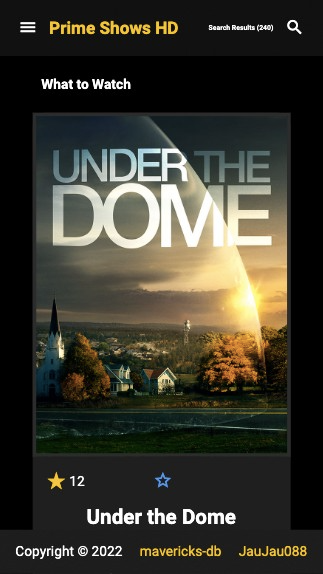
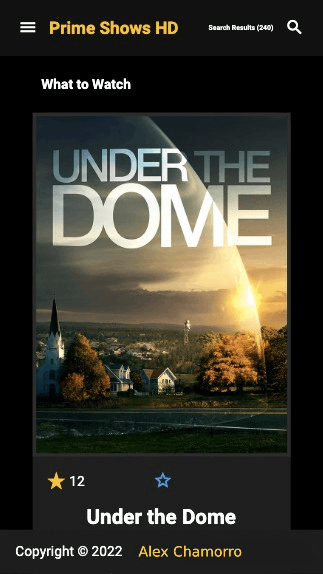
Updates resources

Changed region(s): [[0.4334, 0.9477, 0.9598, 0.9774]]

diff --git a/README.md b/README.md
@@ -3,7 +3,7 @@
 
 # PRIME SHOWS HD
 
-## *Microverse Second Capstone Project*
+## *Microverse Capstone Project*
 
 > This educational project is to build our own web application based on an external API. We selected an API that provides data about a topic that we like and built the web app around it. The web app will have 2 user interfaces.
 
@@ -24,9 +24,6 @@
 - [x] Make JavaScript code synchronous.
 - [x] Perform a code review for a team member.
 
-## Project Documentation 📄
-- [x] Here is the presentation video [link](https://drive.google.com/file/d/1Y0g36qCEXfqTaaSVR7acBoWULyKo-91x/view?usp=sharing)👈
-
 ## Built With 🛠
 
 - [x] Languages: HTML, Sass and JavaScript
@@ -38,7 +35,7 @@
 - [x] Code Editor: VS Code
 
 ## Website Mockup 📱 💻 🖥
-![website_mockup](https://user-images.githubusercontent.com/98527559/169324147-2d46aaf5-ed06-4e70-a8c3-acbcc8c28d63.png)
+![website_mockup](./website_screenshot.png)
 
 
 ## Screenshots 📸
@@ -46,7 +43,7 @@ Screenshots can be found in the repository.
 
 ## Live Demo 🔗
 
-Check the live demo [here](https://mavericks-db.github.io/capstone02/dist)👈
+Check the live demo [here](https://alexchamorro0x.github.io/capstone/dist)👈
 
 ## Getting Started
 
@@ -76,7 +73,7 @@ Clone the repository using the GitHub link provided below.
 In the terminal, go to your file directory and run this command.
 
 ```
-$ git clone git@github.com:mavericks-db/capstone02.git
+$ git clone git@github.com:alexchamorro0x/capstone.git
 ```
 
 ### Usage
@@ -85,7 +82,7 @@ Kindly modify the files as needed.
 
 ### Run tests
 
-To check for linters, use the files provided by [Microverse](https://github.com/microverseinc/linters-config). A GitHub action is also set to run during pull request.
+To check for linters, use the files provided by [Microverse](https://github.com/alexchamorro0x/linters-config). A GitHub action is also set to run during pull request.
 ```
 $ npm install
 ```
@@ -95,36 +92,11 @@ $ npm install
 This app is deployed in the GitHub Pages for easy viewing upon merged on the main branch.
 Please find the link in the Live Demo section.
 
-
-## Authors
-
-👤 **Mavericks Balitaan** <img src="https://emojis.slackmojis.com/emojis/images/1531849430/4246/blob-sunglasses.gif?1531849430" width="20"/>
-
-- GitHub: [![GitHub Badge](https://img.shields.io/badge/-mavericks--db-white?logo=GitHub&logoColor=181717&style=plastic)](https://github.com/mavericks-db)
-
-- Twitter: [![Twitter Badge](https://img.shields.io/badge/-mavericks__db-white?logo=Twitter&logoColor=1DA1F2&style=plastic)](https://twitter.com/mavericks_db)
-
-- Facebook: [![Facebook Badge](https://img.shields.io/badge/-mavericksdb-white?logo=Facebook&logoColor=1877F2&style=plastic)](https://www.facebook.com/mavericksdb/)
-
-- LinkedIn: [![LinkedIn Badge](https://img.shields.io/badge/-mavericks--db-white?logo=LinkedIn&logoColor=0A66C2&style=plastic)](https://www.linkedin.com/in/mavericks-db/)
-
-- Gmail: [![Gmail Badge](https://img.shields.io/badge/-@balitaanmavericks-white?logo=Gmail&logoColor=EA4335&style=plastic)](mailto:balitaanmavericks@gmail.com)
-
-👤 **Jauhari Alafi** <img src="https://emojis.slackmojis.com/emojis/images/1531849430/4246/blob-sunglasses.gif?1531849430" width="20"/>
-
-- GitHub: [![GitHub Badge](https://img.shields.io/badge/-JauJau088-white?logo=GitHub&logoColor=181717&style=plastic)](https://github.com/JauJau088)
-
-- Twitter: [![Twitter Badge](https://img.shields.io/badge/-jaujauj-white?logo=Twitter&logoColor=1DA1F2&style=plastic)](https://twitter.com/jaujauj)
-
-- LinkedIn: [![LinkedIn Badge](https://img.shields.io/badge/-jauhari--alafi-white?logo=LinkedIn&logoColor=0A66C2&style=plastic)](https://www.linkedin.com/in/jauhari-alafi/)
-
-- Gmail: [![Gmail Badge](https://img.shields.io/badge/-@jauhari.alafi-white?logo=Gmail&logoColor=EA4335&style=plastic)](mailto:jauhari.alafi@gmail.com)
-
 ## 🤝 Contributing
 
 Contributions, issues, and feature requests are welcome!
 
-Feel free to check the [issues page](https://github.com/mavericks-db/capstone02/issues).
+Feel free to check the [issues page](https://github.com/alexchamorro0x/capstone/issues).
 
 ## Show your support
 

diff --git a/MIT.md b/MIT.md
@@ -1,4 +1,4 @@
-## Copyright 2022, MAVERICKS BALITAAN & JAUHARI ALAFI
+## Copyright 2022, ALEX CHAMORRO
 
 
 Permission is hereby granted, free of charge, to any person obtaining a copy of this API-BASED WEB APP and associated documentation files, to deal in the API-BASED WEB APP without restriction, including without limitation the rights to use, copy, modify, merge, publish, distribute, sublicense, and/or sell copies of the API-BASED WEB APP, and to permit persons to whom the API-BASED WEB APP is furnished to do so, subject to the following conditions:
